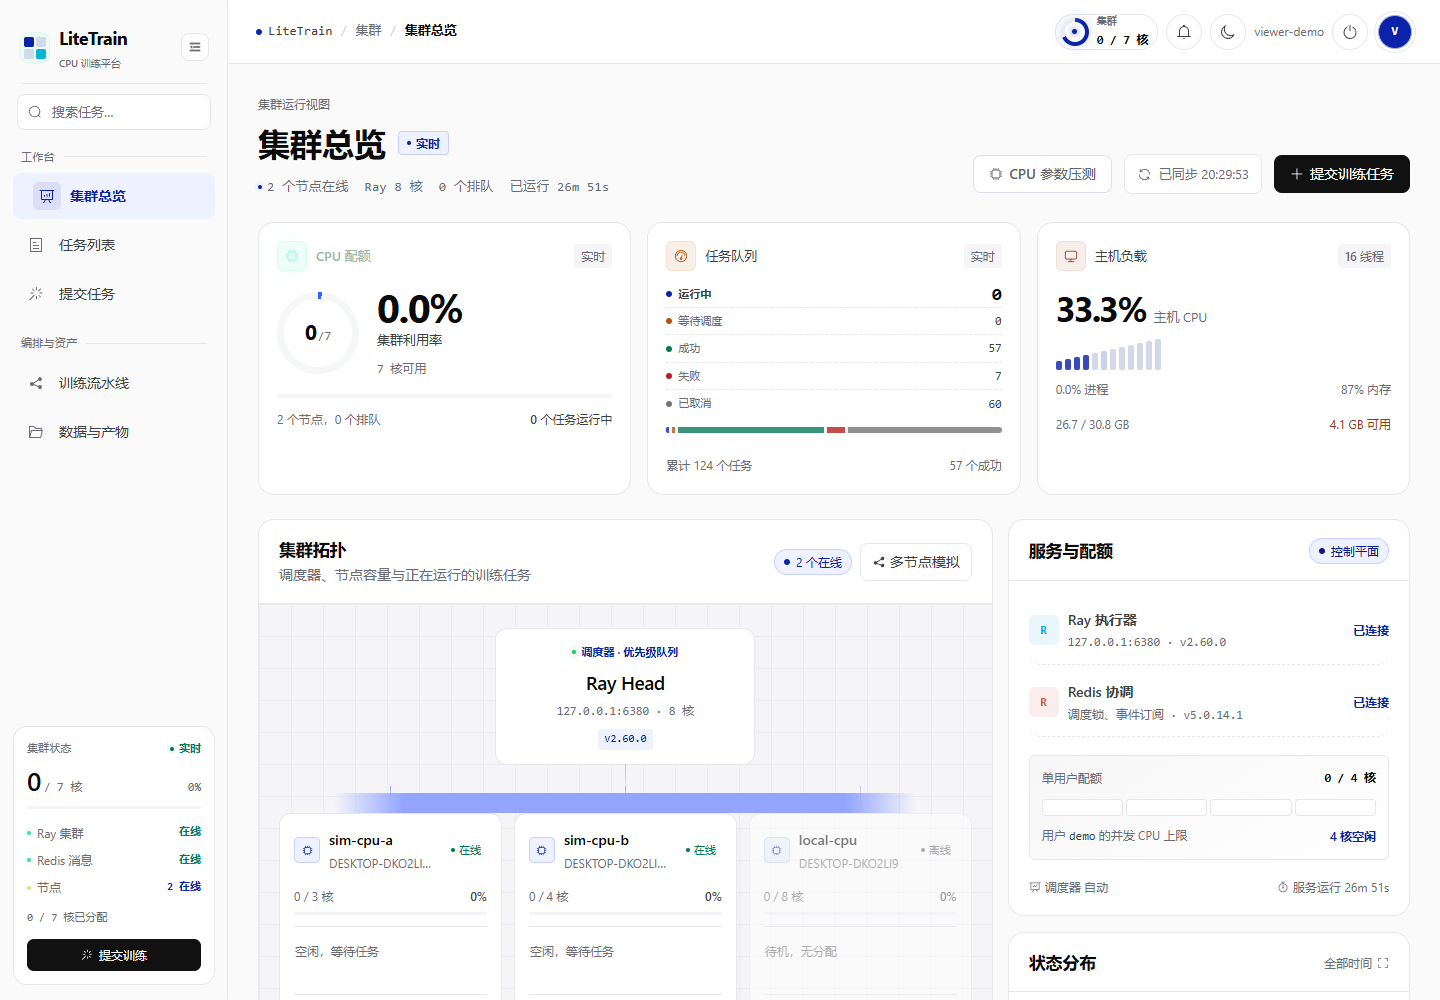
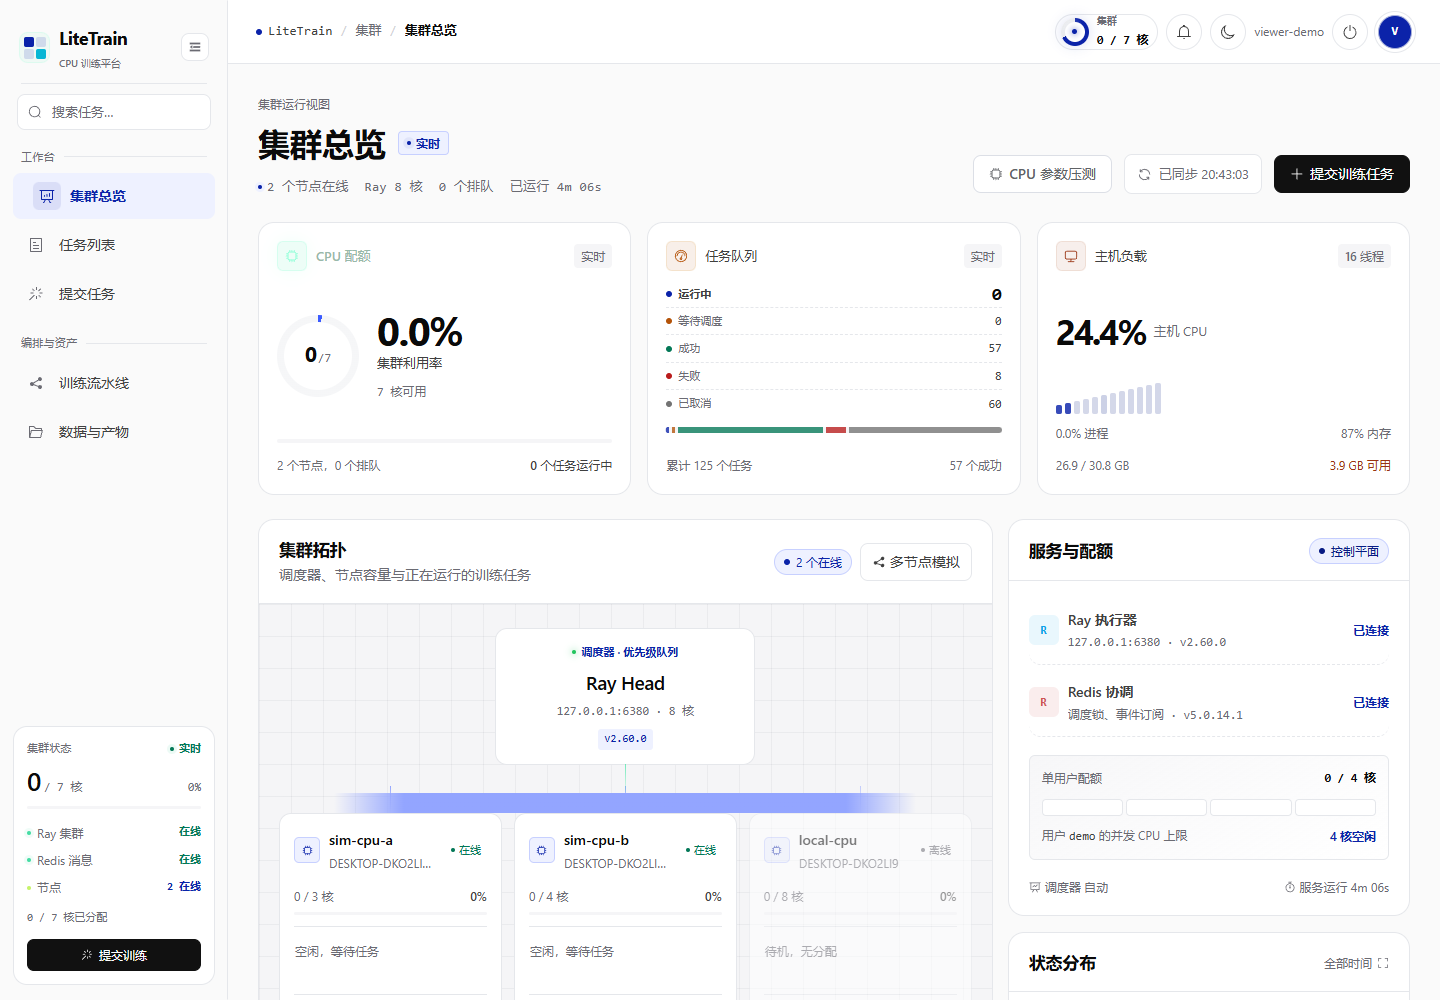
style(overview): stretch resource cards to full height

diff --git a/frontend/src/views/OverviewView.vue b/frontend/src/views/OverviewView.vue
@@ -4456,5 +4456,36 @@ html.dark .accent-card {
   margin-top: auto;
   padding-top: 12px;
 }
+
+.overview-page .metric-cpu,
+.overview-page .metric-host {
+  display: flex;
+  flex-direction: column;
+}
+
+.overview-page .metric-cpu .metric-cpu-main {
+  flex: 1;
+  align-items: center;
+}
+
+.overview-page .metric-host .host-main {
+  flex: 1;
+  align-items: center;
+}
+
+.overview-page .metric-host .host-bars {
+  flex: 0 0 auto;
+  height: 32px;
+  min-height: 0;
+  margin-top: 10px;
+  margin-left: 0;
+  align-items: flex-end;
+}
+
+.overview-page .metric-cpu .metric-foot,
+.overview-page .metric-host .metric-foot {
+  margin-top: auto;
+  padding-top: 12px;
+}
 </style>
 
